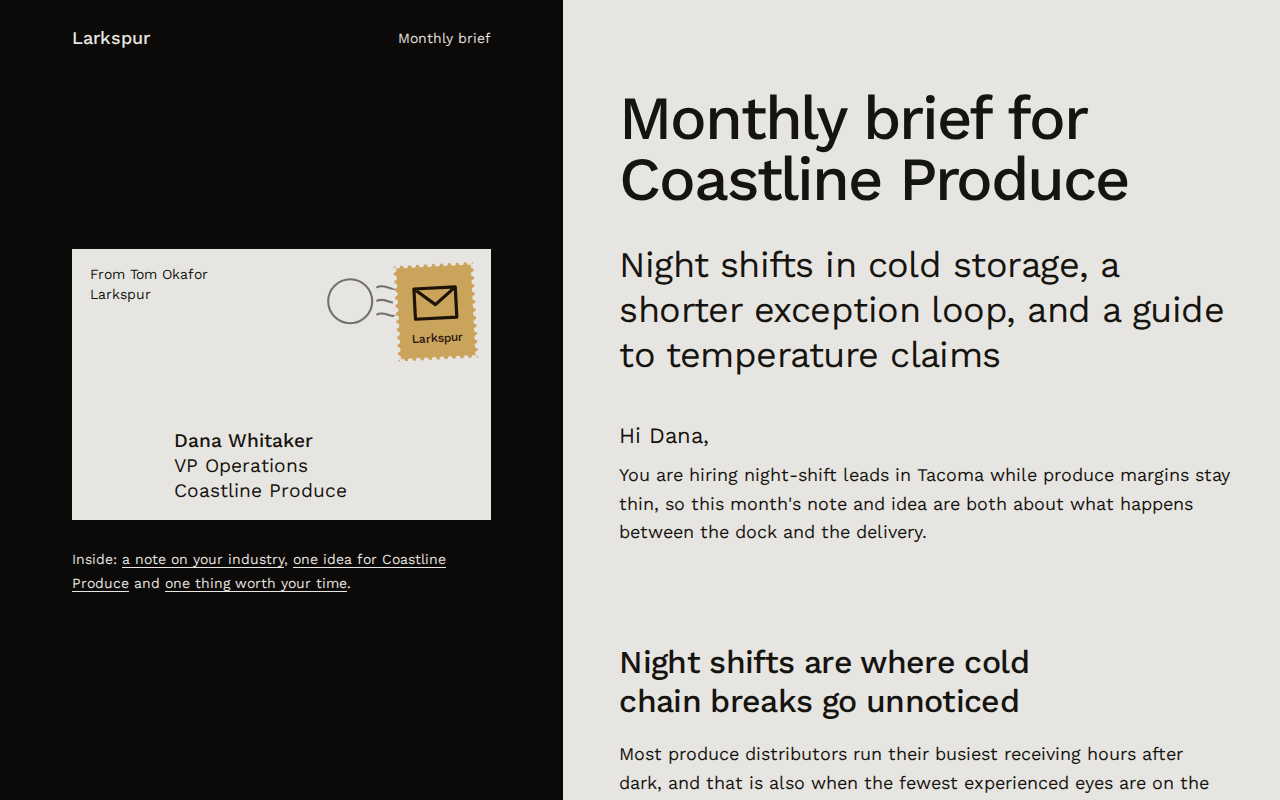
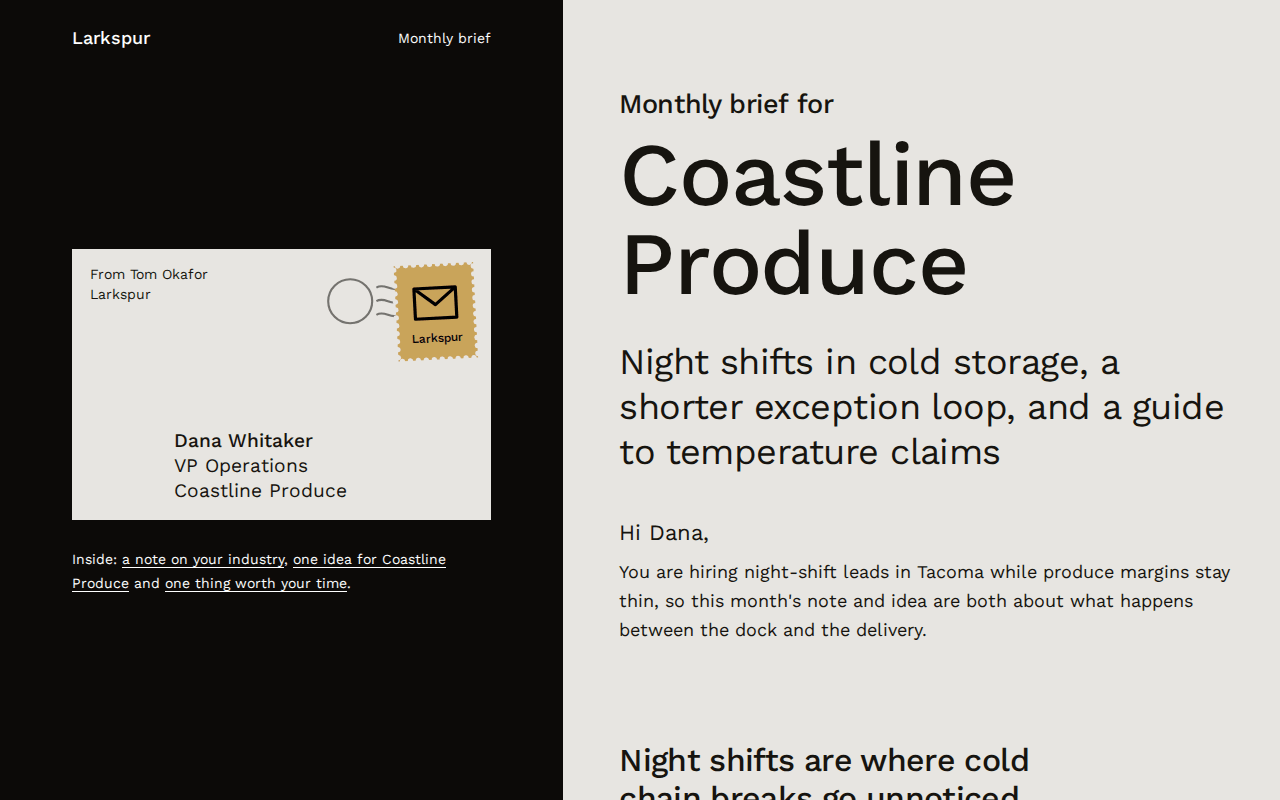
Library redesign fix pass: newsletter title stays large for long names
The account name is its own line under "Monthly brief for", sized from
its length so it fills two lines at most at every width instead of
shrinking to fit one. Text on the brand fields uses the luminance switch.

DEV-6045

diff --git a/starters/newsletter/preview/ashgrove-shared.html b/starters/newsletter/preview/ashgrove-shared.html
@@ -13,7 +13,7 @@
 *{box-sizing:border-box}
 html{-webkit-text-size-adjust:100%;scroll-behavior:smooth}
 body{margin:0;background:#e7e5e1}
-.nb{--p:#243b2f;--s:#b7791f;--paper:#e7e5e1;--ink:#16140f;--mute:#57544d;--onp:#16140f;--onp:oklch(from var(--p) clamp(0.2, (0.6 - l) * 100, 0.96) min(c, 0.03) h);--ons:#e7e5e1;--ons:oklch(from var(--s) clamp(0.2, (0.6 - l) * 100, 0.92) min(c, 0.02) h);--fh:'Playfair Display',ui-sans-serif,system-ui,sans-serif;--fb:'Source Sans 3',ui-sans-serif,system-ui,sans-serif;--m:clamp(1.25rem,6vw,3rem);background:var(--paper);color:var(--ink);font-family:var(--fb);font-size:1.125rem;line-height:1.6;-webkit-font-smoothing:antialiased}
+.nb{--p:#243b2f;--s:#b7791f;--paper:#e7e5e1;--ink:#16140f;--mute:#57544d;--onp:#16140f;--onp:color(from var(--p) xyz-d65 clamp(0,(.18 - y) * 1000000,.9505) clamp(0,(.18 - y) * 1000000,1) clamp(0,(.18 - y) * 1000000,1.089));--ons:#e7e5e1;--ons:color(from var(--s) xyz-d65 clamp(0,(.18 - y) * 1000000,.9505) clamp(0,(.18 - y) * 1000000,1) clamp(0,(.18 - y) * 1000000,1.089));--fh:'Playfair Display',ui-sans-serif,system-ui,sans-serif;--fb:'Source Sans 3',ui-sans-serif,system-ui,sans-serif;--m:clamp(1.25rem,6vw,3rem);background:var(--paper);color:var(--ink);font-family:var(--fb);font-size:1.125rem;line-height:1.6;-webkit-font-smoothing:antialiased}
 .nb p{margin:0}
 .nb h1,.nb h2,.nb h3{font-family:var(--fh);font-weight:500;margin:0;text-wrap:balance}
 .nb a{color:inherit;text-decoration-thickness:.07em;text-underline-offset:.2em}
@@ -38,7 +38,9 @@ body{margin:0;background:#e7e5e1}
 .inside{margin-top:1.75rem!important;max-width:32rem;font-size:.875rem;line-height:1.7}
 .read{padding:3rem var(--m) 4rem}
 .hero{container-type:inline-size}
-.nb h1{font-size:clamp(1.75rem,7.391304347826088cqi,6.5rem);line-height:1;letter-spacing:-.035em;text-wrap:wrap}
+.nb h1{line-height:1;letter-spacing:-.035em}
+.nb h1 .pre{display:block;font-size:clamp(1.375rem,4.4cqi,2.25rem);letter-spacing:-.015em;line-height:1.2;margin-bottom:.35em}
+.nb h1 .who{display:block;font-size:clamp(2rem,11.428571428571429cqi,7.5rem);text-wrap:balance}
 .headline{font-family:var(--fh);font-weight:400;font-size:1.5rem;line-height:1.25;letter-spacing:-.015em;margin-top:2rem!important;max-width:30ch}
 .hi{font-family:var(--fh);font-size:1.375rem;margin-top:2.5rem!important}
 .intro{margin-top:.5rem!important;max-width:42rem}
@@ -51,12 +53,12 @@ body{margin:0;background:#e7e5e1}
 .step{margin-top:1.75rem;max-width:42rem;padding:1.25rem 1.4rem;background:color-mix(in oklab,var(--p) 26%,var(--paper))}
 .slip{background:var(--s);color:var(--ons);padding:1.6rem 1.5rem 1.75rem;max-width:42rem}
 .slip-title{font-family:var(--fh);font-size:1.375rem;line-height:1.25;letter-spacing:-.015em;margin-bottom:.75rem!important}
-.slip-kind{margin-top:1rem!important;font-size:.875rem;opacity:.85}
+.slip-kind{margin-top:1rem!important;font-size:.875rem}
 .cta{margin-top:1.5rem}
 .cta .ken-cta{display:inline-block!important;min-height:52px;padding:15px 26px!important;border-radius:2px!important;background:var(--p)!important;color:var(--onp)!important;font-family:var(--fh);font-weight:500!important;font-size:1.125rem;line-height:22px}
 .cta .ken-cta:focus-visible{outline:3px solid currentColor;outline-offset:3px}
 .muted{color:var(--mute);margin-top:1rem!important}
-.slip .muted{color:inherit;opacity:.85}
+.slip .muted{color:inherit}
 .reply{background:var(--s);color:var(--ons);padding:4rem var(--m) 3rem}
 .reply-in{max-width:44rem}
 .nb .reply h2{font-size:clamp(2rem,6vw,3.5rem);line-height:1;letter-spacing:-.035em;max-width:14ch;margin-bottom:1.5rem}
@@ -65,7 +67,7 @@ body{margin:0;background:#e7e5e1}
 .sign b{display:block;font-weight:500;font-size:1.25rem}
 .ps{margin-top:2rem!important;max-width:38rem}
 .ps b{font-weight:500;margin-right:.4rem}
-.foot{margin-top:3.5rem!important;font-size:.875rem;opacity:.8;max-width:38rem}
+.foot{margin-top:3.5rem!important;font-size:.875rem;max-width:38rem}
 @media (prefers-reduced-motion:no-preference){
 .stamp{animation:land .55s cubic-bezier(.3,1.3,.5,1) .35s both}
 .mark{animation:post .3s ease-out .8s both}
@@ -114,7 +116,7 @@ body{margin:0;background:#e7e5e1}
 </aside>
 <div class="read">
 <section data-section="hero" class="hero">
-<h1>Monthly brief for<br>Ashgrove Health Clinics</h1>
+<h1><span class="pre">Monthly brief for</span> <span class="who">Ashgrove Health Clinics</span></h1>
 <p class="headline">Imaging wait times, a two-week no-show review, and an opening checklist</p>
 <p class="hi">Hi there,</p>
 <p class="intro">Two new imaging centers means two new schedules to fill. This month&#39;s brief is about the weeks right after an opening, when a clinic&#39;s reputation for wait times gets set.</p>

diff --git a/starters/newsletter/preview/brightline.html b/starters/newsletter/preview/brightline.html
@@ -13,7 +13,7 @@
 *{box-sizing:border-box}
 html{-webkit-text-size-adjust:100%;scroll-behavior:smooth}
 body{margin:0;background:#e7e5e1}
-.nb{--p:#ff5a1f;--s:#111111;--paper:#e7e5e1;--ink:#16140f;--mute:#57544d;--onp:#16140f;--onp:oklch(from var(--p) clamp(0.2, (0.6 - l) * 100, 0.96) min(c, 0.03) h);--ons:#e7e5e1;--ons:oklch(from var(--s) clamp(0.2, (0.6 - l) * 100, 0.92) min(c, 0.02) h);--fh:'Outfit',ui-sans-serif,system-ui,sans-serif;--fb:'DM Sans',ui-sans-serif,system-ui,sans-serif;--m:clamp(1.25rem,6vw,3rem);background:var(--paper);color:var(--ink);font-family:var(--fb);font-size:1.125rem;line-height:1.6;-webkit-font-smoothing:antialiased}
+.nb{--p:#ff5a1f;--s:#111111;--paper:#e7e5e1;--ink:#16140f;--mute:#57544d;--onp:#16140f;--onp:color(from var(--p) xyz-d65 clamp(0,(.18 - y) * 1000000,.9505) clamp(0,(.18 - y) * 1000000,1) clamp(0,(.18 - y) * 1000000,1.089));--ons:#e7e5e1;--ons:color(from var(--s) xyz-d65 clamp(0,(.18 - y) * 1000000,.9505) clamp(0,(.18 - y) * 1000000,1) clamp(0,(.18 - y) * 1000000,1.089));--fh:'Outfit',ui-sans-serif,system-ui,sans-serif;--fb:'DM Sans',ui-sans-serif,system-ui,sans-serif;--m:clamp(1.25rem,6vw,3rem);background:var(--paper);color:var(--ink);font-family:var(--fb);font-size:1.125rem;line-height:1.6;-webkit-font-smoothing:antialiased}
 .nb p{margin:0}
 .nb h1,.nb h2,.nb h3{font-family:var(--fh);font-weight:500;margin:0;text-wrap:balance}
 .nb a{color:inherit;text-decoration-thickness:.07em;text-underline-offset:.2em}
@@ -38,7 +38,9 @@ body{margin:0;background:#e7e5e1}
 .inside{margin-top:1.75rem!important;max-width:32rem;font-size:.875rem;line-height:1.7}
 .read{padding:3rem var(--m) 4rem}
 .hero{container-type:inline-size}
-.nb h1{font-size:clamp(1.75rem,8.947368421052632cqi,6.5rem);line-height:1;letter-spacing:-.035em;text-wrap:wrap}
+.nb h1{line-height:1;letter-spacing:-.035em}
+.nb h1 .pre{display:block;font-size:clamp(1.375rem,4.4cqi,2.25rem);letter-spacing:-.015em;line-height:1.2;margin-bottom:.35em}
+.nb h1 .who{display:block;font-size:clamp(2rem,13.333333333333334cqi,7.5rem);text-wrap:balance}
 .headline{font-family:var(--fh);font-weight:400;font-size:1.5rem;line-height:1.25;letter-spacing:-.015em;margin-top:2rem!important;max-width:30ch}
 .hi{font-family:var(--fh);font-size:1.375rem;margin-top:2.5rem!important}
 .intro{margin-top:.5rem!important;max-width:42rem}
@@ -51,12 +53,12 @@ body{margin:0;background:#e7e5e1}
 .step{margin-top:1.75rem;max-width:42rem;padding:1.25rem 1.4rem;background:color-mix(in oklab,var(--p) 26%,var(--paper))}
 .slip{background:var(--s);color:var(--ons);padding:1.6rem 1.5rem 1.75rem;max-width:42rem}
 .slip-title{font-family:var(--fh);font-size:1.375rem;line-height:1.25;letter-spacing:-.015em;margin-bottom:.75rem!important}
-.slip-kind{margin-top:1rem!important;font-size:.875rem;opacity:.85}
+.slip-kind{margin-top:1rem!important;font-size:.875rem}
 .cta{margin-top:1.5rem}
 .cta .ken-cta{display:inline-block!important;min-height:52px;padding:15px 26px!important;border-radius:2px!important;background:var(--p)!important;color:var(--onp)!important;font-family:var(--fh);font-weight:500!important;font-size:1.125rem;line-height:22px}
 .cta .ken-cta:focus-visible{outline:3px solid currentColor;outline-offset:3px}
 .muted{color:var(--mute);margin-top:1rem!important}
-.slip .muted{color:inherit;opacity:.85}
+.slip .muted{color:inherit}
 .reply{background:var(--s);color:var(--ons);padding:4rem var(--m) 3rem}
 .reply-in{max-width:44rem}
 .nb .reply h2{font-size:clamp(2rem,6vw,3.5rem);line-height:1;letter-spacing:-.035em;max-width:14ch;margin-bottom:1.5rem}
@@ -65,7 +67,7 @@ body{margin:0;background:#e7e5e1}
 .sign b{display:block;font-weight:500;font-size:1.25rem}
 .ps{margin-top:2rem!important;max-width:38rem}
 .ps b{font-weight:500;margin-right:.4rem}
-.foot{margin-top:3.5rem!important;font-size:.875rem;opacity:.8;max-width:38rem}
+.foot{margin-top:3.5rem!important;font-size:.875rem;max-width:38rem}
 @media (prefers-reduced-motion:no-preference){
 .stamp{animation:land .55s cubic-bezier(.3,1.3,.5,1) .35s both}
 .mark{animation:post .3s ease-out .8s both}
@@ -114,7 +116,7 @@ body{margin:0;background:#e7e5e1}
 </aside>
 <div class="read">
 <section data-section="hero" class="hero">
-<h1>Monthly brief for<br>Brightline Robotics</h1>
+<h1><span class="pre">Monthly brief for</span> <span class="who">Brightline Robotics</span></h1>
 <p class="headline">Service plans after the install, a renewal calendar, and a recording on pricing them</p>
 <p class="hi">Hi Sofia,</p>
 <p class="intro">Your new service plan page is the reason for this one. The note and the idea are both about the months after an install, where most machine builders leave money and goodwill on the floor.</p>

diff --git a/starters/newsletter/preview/coastline.html b/starters/newsletter/preview/coastline.html
@@ -10,7 +10,7 @@
 *{box-sizing:border-box}
 html{-webkit-text-size-adjust:100%;scroll-behavior:smooth}
 body{margin:0;background:#e7e5e1}
-.nb{--p:#c9a45a;--s:#0c0a08;--paper:#e7e5e1;--ink:#16140f;--mute:#57544d;--onp:#16140f;--onp:oklch(from var(--p) clamp(0.2, (0.6 - l) * 100, 0.96) min(c, 0.03) h);--ons:#e7e5e1;--ons:oklch(from var(--s) clamp(0.2, (0.6 - l) * 100, 0.92) min(c, 0.02) h);--fh:'Work Sans',ui-sans-serif,system-ui,sans-serif;--fb:'Work Sans',ui-sans-serif,system-ui,sans-serif;--m:clamp(1.25rem,6vw,3rem);background:var(--paper);color:var(--ink);font-family:var(--fb);font-size:1.125rem;line-height:1.6;-webkit-font-smoothing:antialiased}
+.nb{--p:#c9a45a;--s:#0c0a08;--paper:#e7e5e1;--ink:#16140f;--mute:#57544d;--onp:#16140f;--onp:color(from var(--p) xyz-d65 clamp(0,(.18 - y) * 1000000,.9505) clamp(0,(.18 - y) * 1000000,1) clamp(0,(.18 - y) * 1000000,1.089));--ons:#e7e5e1;--ons:color(from var(--s) xyz-d65 clamp(0,(.18 - y) * 1000000,.9505) clamp(0,(.18 - y) * 1000000,1) clamp(0,(.18 - y) * 1000000,1.089));--fh:'Work Sans',ui-sans-serif,system-ui,sans-serif;--fb:'Work Sans',ui-sans-serif,system-ui,sans-serif;--m:clamp(1.25rem,6vw,3rem);background:var(--paper);color:var(--ink);font-family:var(--fb);font-size:1.125rem;line-height:1.6;-webkit-font-smoothing:antialiased}
 .nb p{margin:0}
 .nb h1,.nb h2,.nb h3{font-family:var(--fh);font-weight:500;margin:0;text-wrap:balance}
 .nb a{color:inherit;text-decoration-thickness:.07em;text-underline-offset:.2em}
@@ -35,7 +35,9 @@ body{margin:0;background:#e7e5e1}
 .inside{margin-top:1.75rem!important;max-width:32rem;font-size:.875rem;line-height:1.7}
 .read{padding:3rem var(--m) 4rem}
 .hero{container-type:inline-size}
-.nb h1{font-size:clamp(1.75rem,10cqi,6.5rem);line-height:1;letter-spacing:-.035em;text-wrap:wrap}
+.nb h1{line-height:1;letter-spacing:-.035em}
+.nb h1 .pre{display:block;font-size:clamp(1.375rem,4.4cqi,2.25rem);letter-spacing:-.015em;line-height:1.2;margin-bottom:.35em}
+.nb h1 .who{display:block;font-size:clamp(2rem,14.545454545454547cqi,7.5rem);text-wrap:balance}
 .headline{font-family:var(--fh);font-weight:400;font-size:1.5rem;line-height:1.25;letter-spacing:-.015em;margin-top:2rem!important;max-width:30ch}
 .hi{font-family:var(--fh);font-size:1.375rem;margin-top:2.5rem!important}
 .intro{margin-top:.5rem!important;max-width:42rem}
@@ -48,12 +50,12 @@ body{margin:0;background:#e7e5e1}
 .step{margin-top:1.75rem;max-width:42rem;padding:1.25rem 1.4rem;background:color-mix(in oklab,var(--p) 26%,var(--paper))}
 .slip{background:var(--s);color:var(--ons);padding:1.6rem 1.5rem 1.75rem;max-width:42rem}
 .slip-title{font-family:var(--fh);font-size:1.375rem;line-height:1.25;letter-spacing:-.015em;margin-bottom:.75rem!important}
-.slip-kind{margin-top:1rem!important;font-size:.875rem;opacity:.85}
+.slip-kind{margin-top:1rem!important;font-size:.875rem}
 .cta{margin-top:1.5rem}
 .cta .ken-cta{display:inline-block!important;min-height:52px;padding:15px 26px!important;border-radius:2px!important;background:var(--p)!important;color:var(--onp)!important;font-family:var(--fh);font-weight:500!important;font-size:1.125rem;line-height:22px}
 .cta .ken-cta:focus-visible{outline:3px solid currentColor;outline-offset:3px}
 .muted{color:var(--mute);margin-top:1rem!important}
-.slip .muted{color:inherit;opacity:.85}
+.slip .muted{color:inherit}
 .reply{background:var(--s);color:var(--ons);padding:4rem var(--m) 3rem}
 .reply-in{max-width:44rem}
 .nb .reply h2{font-size:clamp(2rem,6vw,3.5rem);line-height:1;letter-spacing:-.035em;max-width:14ch;margin-bottom:1.5rem}
@@ -62,7 +64,7 @@ body{margin:0;background:#e7e5e1}
 .sign b{display:block;font-weight:500;font-size:1.25rem}
 .ps{margin-top:2rem!important;max-width:38rem}
 .ps b{font-weight:500;margin-right:.4rem}
-.foot{margin-top:3.5rem!important;font-size:.875rem;opacity:.8;max-width:38rem}
+.foot{margin-top:3.5rem!important;font-size:.875rem;max-width:38rem}
 @media (prefers-reduced-motion:no-preference){
 .stamp{animation:land .55s cubic-bezier(.3,1.3,.5,1) .35s both}
 .mark{animation:post .3s ease-out .8s both}
@@ -111,7 +113,7 @@ body{margin:0;background:#e7e5e1}
 </aside>
 <div class="read">
 <section data-section="hero" class="hero">
-<h1>Monthly brief for<br>Coastline Produce</h1>
+<h1><span class="pre">Monthly brief for</span> <span class="who">Coastline Produce</span></h1>
 <p class="headline">Night shifts in cold storage, a shorter exception loop, and a guide to temperature claims</p>
 <p class="hi">Hi Dana,</p>
 <p class="intro">You are hiring night-shift leads in Tacoma while produce margins stay thin, so this month&#39;s note and idea are both about what happens between the dock and the delivery.</p>

diff --git a/starters/newsletter/preview/pennant-partial.html b/starters/newsletter/preview/pennant-partial.html
@@ -13,7 +13,7 @@
 *{box-sizing:border-box}
 html{-webkit-text-size-adjust:100%;scroll-behavior:smooth}
 body{margin:0;background:#e7e5e1}
-.nb{--p:#0f766e;--s:#0f172a;--paper:#e7e5e1;--ink:#16140f;--mute:#57544d;--onp:#16140f;--onp:oklch(from var(--p) clamp(0.2, (0.6 - l) * 100, 0.96) min(c, 0.03) h);--ons:#e7e5e1;--ons:oklch(from var(--s) clamp(0.2, (0.6 - l) * 100, 0.92) min(c, 0.02) h);--fh:'Lora',ui-sans-serif,system-ui,sans-serif;--fb:'Nunito Sans',ui-sans-serif,system-ui,sans-serif;--m:clamp(1.25rem,6vw,3rem);background:var(--paper);color:var(--ink);font-family:var(--fb);font-size:1.125rem;line-height:1.6;-webkit-font-smoothing:antialiased}
+.nb{--p:#0f766e;--s:#0f172a;--paper:#e7e5e1;--ink:#16140f;--mute:#57544d;--onp:#16140f;--onp:color(from var(--p) xyz-d65 clamp(0,(.18 - y) * 1000000,.9505) clamp(0,(.18 - y) * 1000000,1) clamp(0,(.18 - y) * 1000000,1.089));--ons:#e7e5e1;--ons:color(from var(--s) xyz-d65 clamp(0,(.18 - y) * 1000000,.9505) clamp(0,(.18 - y) * 1000000,1) clamp(0,(.18 - y) * 1000000,1.089));--fh:'Lora',ui-sans-serif,system-ui,sans-serif;--fb:'Nunito Sans',ui-sans-serif,system-ui,sans-serif;--m:clamp(1.25rem,6vw,3rem);background:var(--paper);color:var(--ink);font-family:var(--fb);font-size:1.125rem;line-height:1.6;-webkit-font-smoothing:antialiased}
 .nb p{margin:0}
 .nb h1,.nb h2,.nb h3{font-family:var(--fh);font-weight:500;margin:0;text-wrap:balance}
 .nb a{color:inherit;text-decoration-thickness:.07em;text-underline-offset:.2em}
@@ -38,7 +38,9 @@ body{margin:0;background:#e7e5e1}
 .inside{margin-top:1.75rem!important;max-width:32rem;font-size:.875rem;line-height:1.7}
 .read{padding:3rem var(--m) 4rem}
 .hero{container-type:inline-size}
-.nb h1{font-size:clamp(1.75rem,6.8cqi,6.5rem);line-height:1;letter-spacing:-.035em;text-wrap:wrap}
+.nb h1{line-height:1;letter-spacing:-.035em}
+.nb h1 .pre{display:block;font-size:clamp(1.375rem,4.4cqi,2.25rem);letter-spacing:-.015em;line-height:1.2;margin-bottom:.35em}
+.nb h1 .who{display:block;font-size:clamp(2rem,10.666666666666668cqi,7.5rem);text-wrap:balance}
 .headline{font-family:var(--fh);font-weight:400;font-size:1.5rem;line-height:1.25;letter-spacing:-.015em;margin-top:2rem!important;max-width:30ch}
 .hi{font-family:var(--fh);font-size:1.375rem;margin-top:2.5rem!important}
 .intro{margin-top:.5rem!important;max-width:42rem}
@@ -51,12 +53,12 @@ body{margin:0;background:#e7e5e1}
 .step{margin-top:1.75rem;max-width:42rem;padding:1.25rem 1.4rem;background:color-mix(in oklab,var(--p) 26%,var(--paper))}
 .slip{background:var(--s);color:var(--ons);padding:1.6rem 1.5rem 1.75rem;max-width:42rem}
 .slip-title{font-family:var(--fh);font-size:1.375rem;line-height:1.25;letter-spacing:-.015em;margin-bottom:.75rem!important}
-.slip-kind{margin-top:1rem!important;font-size:.875rem;opacity:.85}
+.slip-kind{margin-top:1rem!important;font-size:.875rem}
 .cta{margin-top:1.5rem}
 .cta .ken-cta{display:inline-block!important;min-height:52px;padding:15px 26px!important;border-radius:2px!important;background:var(--p)!important;color:var(--onp)!important;font-family:var(--fh);font-weight:500!important;font-size:1.125rem;line-height:22px}
 .cta .ken-cta:focus-visible{outline:3px solid currentColor;outline-offset:3px}
 .muted{color:var(--mute);margin-top:1rem!important}
-.slip .muted{color:inherit;opacity:.85}
+.slip .muted{color:inherit}
 .reply{background:var(--s);color:var(--ons);padding:4rem var(--m) 3rem}
 .reply-in{max-width:44rem}
 .nb .reply h2{font-size:clamp(2rem,6vw,3.5rem);line-height:1;letter-spacing:-.035em;max-width:14ch;margin-bottom:1.5rem}
@@ -65,7 +67,7 @@ body{margin:0;background:#e7e5e1}
 .sign b{display:block;font-weight:500;font-size:1.25rem}
 .ps{margin-top:2rem!important;max-width:38rem}
 .ps b{font-weight:500;margin-right:.4rem}
-.foot{margin-top:3.5rem!important;font-size:.875rem;opacity:.8;max-width:38rem}
+.foot{margin-top:3.5rem!important;font-size:.875rem;max-width:38rem}
 @media (prefers-reduced-motion:no-preference){
 .stamp{animation:land .55s cubic-bezier(.3,1.3,.5,1) .35s both}
 .mark{animation:post .3s ease-out .8s both}
@@ -114,7 +116,7 @@ body{margin:0;background:#e7e5e1}
 </aside>
 <div class="read">
 <section data-section="hero" class="hero">
-<h1>Monthly brief for<br>Pennant Hospitality Group</h1>
+<h1><span class="pre">Monthly brief for</span> <span class="who">Pennant Hospitality Group</span></h1>
 <p class="headline">Group sales run property by property, and a question for your sales managers</p>
 <p class="hi">Hi Elena,</p>
 <p class="intro">Your properties each run their own group and events sales, which is where this month&#39;s note and idea both come from.</p>
